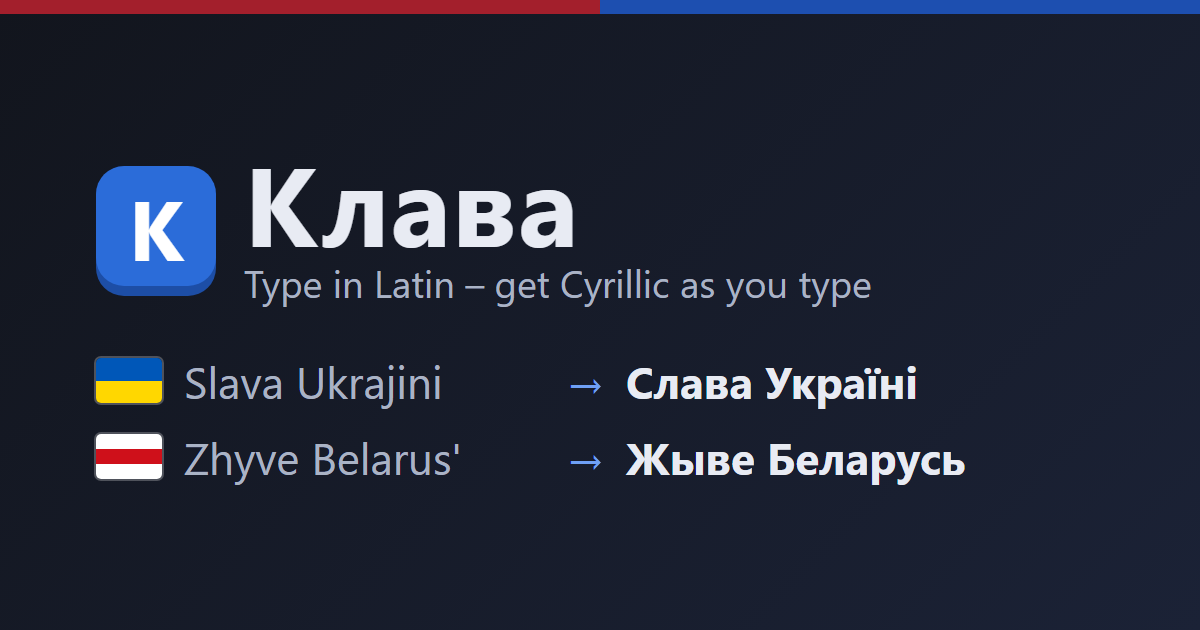
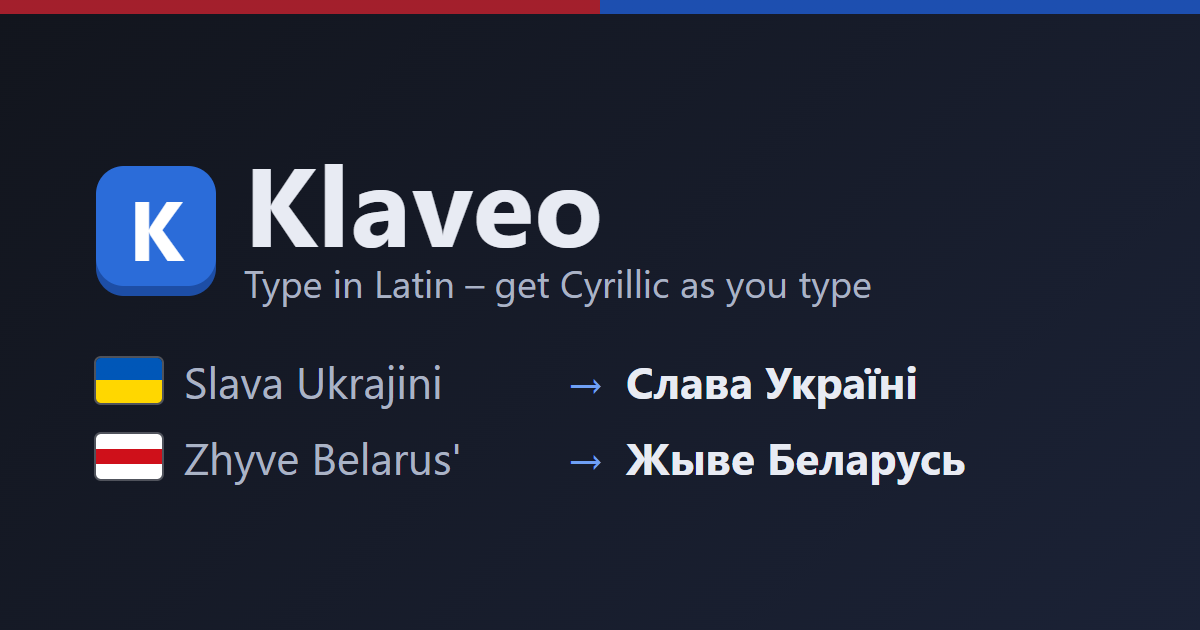
Rename project to Klaveo

Changed region(s): [[0.2467, 0.2714, 0.5242, 0.3921]]

diff --git a/index.html b/index.html
@@ -4,7 +4,7 @@
     <meta charset="UTF-8" />
     <link rel="icon" type="image/svg+xml" href="/favicon.svg" />
     <meta name="viewport" content="width=device-width, initial-scale=1.0" />
-    <title>Клава – Latin to Cyrillic</title>
+    <title>Klaveo – Latin to Cyrillic</title>
     <meta
       name="description"
       content="Type in Latin letters and get Belarusian or Ukrainian Cyrillic instantly as you type. Free, runs in your browser, nothing is sent anywhere."
@@ -12,22 +12,22 @@
 
     <!-- Link preview (chat apps, social networks) -->
     <meta property="og:type" content="website" />
-    <meta property="og:site_name" content="Клава" />
-    <meta property="og:title" content="Клава – Latin to Cyrillic as you type" />
+    <meta property="og:site_name" content="Klaveo" />
+    <meta property="og:title" content="Klaveo – Latin to Cyrillic as you type" />
     <meta
       property="og:description"
       content="Type Slava Ukrajini, get Слава Україні. Belarusian and Ukrainian live transliteration, free and private."
     />
-    <meta property="og:url" content="https://klava-app.netlify.app/" />
-    <meta property="og:image" content="https://klava-app.netlify.app/og-image.png" />
+    <meta property="og:url" content="https://klaveo-app.netlify.app/" />
+    <meta property="og:image" content="https://klaveo-app.netlify.app/og-image.png" />
     <meta property="og:image:width" content="1200" />
     <meta property="og:image:height" content="630" />
-    <meta property="og:image:alt" content="Клава: Slava Ukrajini becomes Слава Україні, Zhyve Belarus' becomes Жыве Беларусь" />
+    <meta property="og:image:alt" content="Klaveo: Slava Ukrajini becomes Слава Україні, Zhyve Belarus' becomes Жыве Беларусь" />
     <meta name="twitter:card" content="summary_large_image" />
     <script>
       // Apply the saved theme before the first paint to avoid a flash of the wrong colours.
       try {
-        var t = localStorage.getItem('klava.theme')
+        var t = localStorage.getItem('klaveo.theme')
         if (t === 'light' || t === 'dark') document.documentElement.dataset.theme = t
       } catch (e) {}
     </script>

diff --git a/src/storage.ts b/src/storage.ts
@@ -1,10 +1,10 @@
 // Everything this app stores lives here, in this browser's localStorage only.
 // The typed text is stored only while the "Save text on reload" box is ticked.
 // (index.html also reads THEME_KEY before first paint – keep the two in sync.)
-export const THEME_KEY = 'klava.theme'
-export const MODE_KEY = 'klava.mode'
-export const SAVE_TEXT_KEY = 'klava.saveText'
-export const TEXT_KEY = 'klava.text'
+export const THEME_KEY = 'klaveo.theme'
+export const MODE_KEY = 'klaveo.mode'
+export const SAVE_TEXT_KEY = 'klaveo.saveText'
+export const TEXT_KEY = 'klaveo.text'
 
 /** Read a stored string; fall back if it is missing, not allowed, or storage is blocked. */
 export function load<T extends string>(key: string, allowed: readonly T[], fallback: T): T {

diff --git a/design/og-image.html b/design/og-image.html
@@ -37,9 +37,9 @@
 <body>
   <div class="bar"></div>
   <div class="brand">
-    <div class="key">К</div>
+    <div class="key">K</div>
     <div>
-      <h1>Клава</h1>
+      <h1>Klaveo</h1>
       <div class="tag">Type in Latin – get Cyrillic as you type</div>
     </div>
   </div>

diff --git a/src/App.tsx b/src/App.tsx
@@ -34,7 +34,7 @@ export default function App() {
       <ThemeSwitch theme={theme} onChange={setTheme} />
 
       <header>
-        <h1>Клава</h1>
+        <h1>Klaveo</h1>
         <p>Type in Latin letters – they turn into Cyrillic as you type.</p>
       </header>
 

diff --git a/CLAUDE.md b/CLAUDE.md
@@ -1,8 +1,8 @@
-# Клава (klava)
+# Klaveo (klaveo)
 
 One-page web app: the user types Latin letters and they turn into Belarusian or Ukrainian Cyrillic
 live in a single textarea. A third "Latin" mode does no conversion. Deployed on Netlify
-(https://klava-app.netlify.app/), repo on GitHub (`maciejkrolpl/klava`, branch `main`).
+(https://klaveo-app.netlify.app/), repo on GitHub (`maciejkrolpl/klaveo`, branch `main`).
 
 ## Scope and rules
 - **Desktop only.** Mobile layout and phone keyboards are out of scope; don't spend effort on them.
@@ -23,7 +23,7 @@ live in a single textarea. A third "Latin" mode does no conversion. Deployed on 
   these tables (multi-letter outputs like дз, дж, йо are hidden from it).
 - `src/hooks/useLiveInput.ts` – live conversion in the textarea (caret and pending-letter handling).
   Fragile: after touching it, check typing, mid-text edits, paste and backspace in a browser.
-- `src/storage.ts` – localStorage keys. `index.html` also reads `klava.theme` before first paint;
+- `src/storage.ts` – localStorage keys. `index.html` also reads `klaveo.theme` before first paint;
   keep the two in sync.
 - `src/components/`, `src/hooks/`, `src/config.ts` – UI pieces, state hooks, tabs and theme lists.
 - `public/` – favicon, `og-image.png` (link preview), `robots.txt`.

diff --git a/README.md b/README.md
@@ -1,4 +1,4 @@
-# Клава
+# Klaveo
 
 A simple one-page app that turns Latin letters into **Belarusian** or **Ukrainian** Cyrillic as you
 type.
